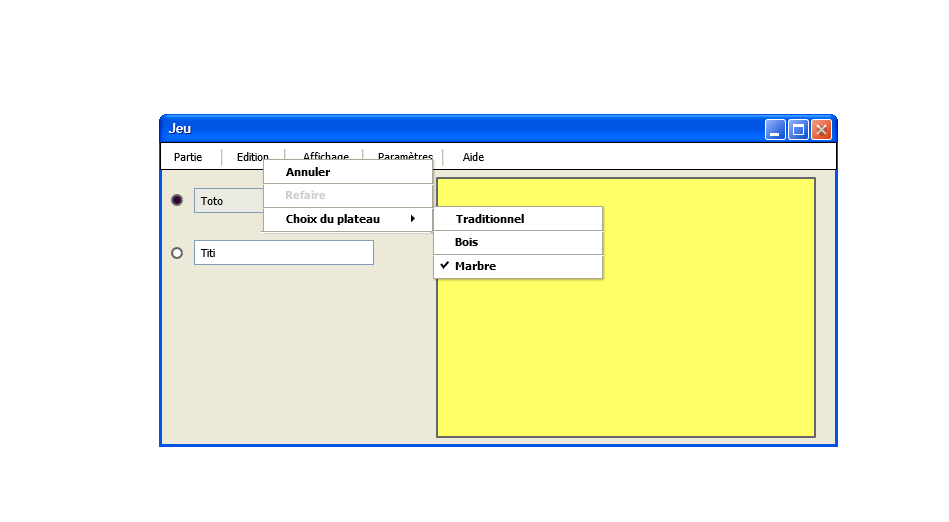
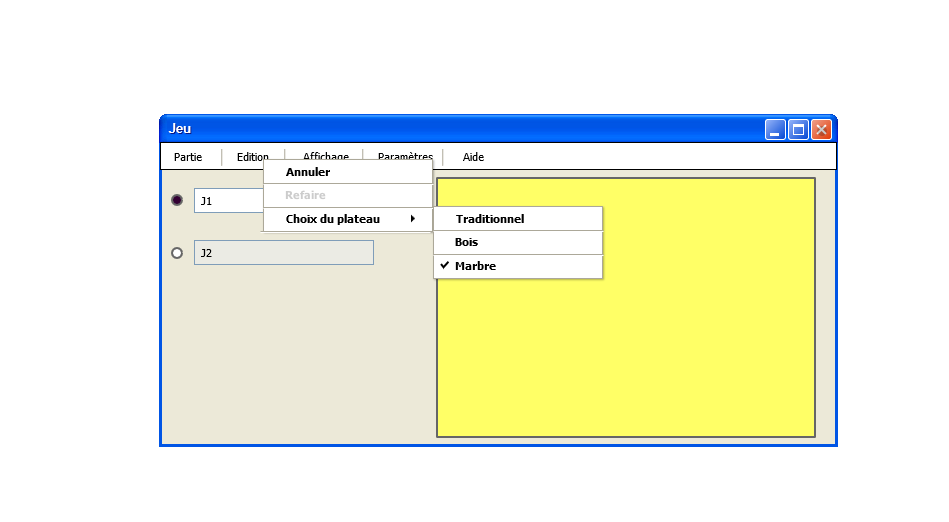
Mise à jour du prototypage, ajout compte-rendu
Suite à un soucis de compréhension, le prototype de l'IHM est mis à jour. De plus, afin de faciliter les futurs dossiers à rendre et / ou la soutenance, un fichier compte-rendu a été mis à disposition. Il retrace l'historique du projet et peut être modfié.

Changed region(s): [[0.1834, 0.4598, 0.3973, 0.5211], [0.1834, 0.3372, 0.275, 0.4291]]

diff --git a/Ressource IHM/index.html b/Ressource IHM/index.html
@@ -1,1 +1,1 @@
-<html xmlns="http://www.w3.org/1999/xhtml"><head><meta http-equiv="Content-Type" content="text/html; charset=UTF-8" /><title>IHM.ep</title><link rel="stylesheet" href="Resources/SampleStyle.css" /></head><body><h1 id="documentTitle">IHM.ep</h1><p id="documentMetadata">Exported at: Fri May 13 2016 14:18:12 GMT+0200</p><div class="Page" id="fentre_principale_page"><h2>Fenêtre Principale</h2><div class="ImageContainer"><img height="522" width="949" src="pages/fentre_principale.png" usemap="#map_fentre_principale" /></div><map name="map_fentre_principale"><area shape="rect" coords="311,381,686,411" href="#quitter_page" title="Go to page 'Quitter'" /><area shape="rect" coords="311,338,686,368" href="#aide_de_jeu_page" title="Go to page 'Aide de jeu'" /><area shape="rect" coords="311,142,686,172" href="#selection_humainordi_page" title="Go to page 'Selection Humain-Ordi'" /></map></div><div class="Page" id="aire_de_jeu_page"><h2>Aire de jeu</h2><div class="ImageContainer"><img height="522" width="949" src="pages/aire_de_jeu.png" usemap="#map_aire_de_jeu" /></div><map name="map_aire_de_jeu"><area shape="rect" coords="817,124,827,134" href="#quitter_page" title="Go to page 'Quitter'" /><area shape="rect" coords="461,147.5,487,164.5" href="#aide_page" title="Go to page 'Aide'" /><area shape="rect" coords="376,147.5,436,164.5" href="#paramtres_page" title="Go to page 'Paramètres'" /><area shape="rect" coords="301,147.5,352,164.5" href="#affichage_page" title="Go to page 'Affichage'" /><area shape="rect" coords="235,147.5,272,164.5" href="#edition_page" title="Go to page 'Edition'" /><area shape="rect" coords="172,147.5,205,164.5" href="#partie_page" title="Go to page 'Partie'" /></map></div><div class="Page" id="selection_humainordi_page"><h2>Selection Humain-Ordi</h2><div class="ImageContainer"><img height="522" width="949" src="pages/selection_humainordi.png" usemap="#map_selection_humainordi" /></div><map name="map_selection_humainordi"><area shape="rect" coords="814,45,824,55" href="#fentre_principale_page" title="Go to page 'Fenêtre Principale'" /><area shape="rect" coords="569.7833251953125,254.46665954589844,626.0166473388672,271.48333740234375" href="#selection_humainhumain_page" title="Go to page 'Selection Humain-Humain'" /><area shape="rect" coords="348.7833251953125,254.46665954589844,424.0166473388672,271.48333740234375" href="#selection_ordiordi_page" title="Go to page 'Selection Ordi-Ordi'" /><area shape="rect" coords="686,413,766,438" href="#fentre_principale_page" title="Go to page 'Fenêtre Principale'" /><area shape="rect" coords="293,413,373,438" href="#aire_de_jeu_page" title="Go to page 'Aire de jeu'" /></map></div><div class="Page" id="aide_de_jeu_page"><h2>Aide de jeu</h2><div class="ImageContainer"><img height="522" width="949" src="pages/aide_de_jeu.png" usemap="#map_aide_de_jeu" /></div><map name="map_aide_de_jeu"><area shape="rect" coords="876,152,886,162" href="#fentre_principale_page" title="Go to page 'Fenêtre Principale'" /></map></div><div class="Page" id="quitter_page"><h2>Quitter</h2><div class="ImageContainer"><img height="522" width="949" src="pages/quitter.png" usemap="#map_quitter" /></div><map name="map_quitter"><area shape="rect" coords="776,215,786,225" href="#fentre_principale_page" title="Go to page 'Fenêtre Principale'" /><area shape="rect" coords="707,325,787,350" href="#fentre_principale_page" title="Go to page 'Fenêtre Principale'" /></map></div><div class="Page" id="partie_page"><h2>Partie</h2><div class="ImageContainer"><img height="522" width="949" src="pages/partie.png" usemap="#map_partie" /></div><map name="map_partie"><area shape="rect" coords="818,126,828,136" href="#quitter_page" title="Go to page 'Quitter'" /><area shape="rect" coords="224,257.5,279,274.5" href="#abandonner_page" title="Go to page 'Abandonner'" /><area shape="rect" coords="223,232.5,313,249.5" href="#nouvelle_partie_page" title="Go to page 'Nouvelle Partie'" /><area shape="rect" coords="223,209.5,310,226.5" href="#recommencer_page" title="Go to page 'Recommencer'" /><area shape="rect" coords="461,147.5,487,164.5" href="#aide_page" title="Go to page 'Aide'" /><area shape="rect" coords="376,147.5,436,164.5" href="#paramtres_page" title="Go to page 'Paramètres'" /><area shape="rect" coords="301,147.5,352,164.5" href="#affichage_page" title="Go to page 'Affichage'" /><area shape="rect" coords="235,147.5,272,164.5" href="#edition_page" title="Go to page 'Edition'" /><area shape="rect" coords="172,147.5,205,164.5" href="#aire_de_jeu_page" title="Go to page 'Aire de jeu'" /><area shape="rect" coords="159,114,838,447" href="#aire_de_jeu_page" title="Go to page 'Aire de jeu'" /></map></div><div class="Page" id="nouvelle_partie_page"><h2>Nouvelle Partie</h2><div class="ImageContainer"><img height="522" width="949" src="pages/nouvelle_partie.png" usemap="#map_nouvelle_partie" /></div><map name="map_nouvelle_partie"><area shape="rect" coords="766,206,776,216" href="#aire_de_jeu_page" title="Go to page 'Aire de jeu'" /><area shape="rect" coords="633,354,713,379" href="#aire_de_jeu_page" title="Go to page 'Aire de jeu'" /><area shape="rect" coords="486,354,566,379" href="#selection_humainordi_page" title="Go to page 'Selection Humain-Ordi'" /></map></div><div class="Page" id="recommencer_page"><h2>Recommencer</h2><div class="ImageContainer"><img height="522" width="949" src="pages/recommencer.png" usemap="#map_recommencer" /></div><map name="map_recommencer"><area shape="rect" coords="766,206,776,216" href="#aire_de_jeu_page" title="Go to page 'Aire de jeu'" /><area shape="rect" coords="633,354,713,379" href="#aire_de_jeu_page" title="Go to page 'Aire de jeu'" /><area shape="rect" coords="486,354,566,379" href="#aire_de_jeu_page" title="Go to page 'Aire de jeu'" /></map></div><div class="Page" id="abandonner_page"><h2>Abandonner</h2><div class="ImageContainer"><img height="522" width="949" src="pages/abandonner.png" usemap="#map_abandonner" /></div><map name="map_abandonner"><area shape="rect" coords="766,206,776,216" href="#aire_de_jeu_page" title="Go to page 'Aire de jeu'" /><area shape="rect" coords="633,354,713,379" href="#fentre_principale_page" title="Go to page 'Fenêtre Principale'" /><area shape="rect" coords="486,354,566,379" href="#fentre_principale_page" title="Go to page 'Fenêtre Principale'" /></map></div><div class="Page" id="edition_page"><h2>Edition</h2><div class="ImageContainer"><img height="522" width="949" src="pages/edition.png" usemap="#map_edition" /></div><map name="map_edition"><area shape="rect" coords="817,127,827,137" href="#quitter_page" title="Go to page 'Quitter'" /><area shape="rect" coords="284,209.5,415,226.5" href="#choix_du_plateau_page" title="Go to page 'Choix du Plateau'" /><area shape="rect" coords="461,147.5,487,164.5" href="#aide_page" title="Go to page 'Aide'" /><area shape="rect" coords="376,147.5,436,164.5" href="#paramtres_page" title="Go to page 'Paramètres'" /><area shape="rect" coords="301,147.5,352,164.5" href="#affichage_page" title="Go to page 'Affichage'" /><area shape="rect" coords="235,147.5,272,164.5" href="#aire_de_jeu_page" title="Go to page 'Aire de jeu'" /><area shape="rect" coords="172,147.5,205,164.5" href="#partie_page" title="Go to page 'Partie'" /><area shape="rect" coords="159,114,838,447" href="#aire_de_jeu_page" title="Go to page 'Aire de jeu'" /></map></div><div class="Page" id="choix_du_plateau_page"><h2>Choix du Plateau</h2><div class="ImageContainer"><img height="522" width="949" src="pages/choix_du_plateau.png" usemap="#map_choix_du_plateau" /></div><map name="map_choix_du_plateau"><area shape="rect" coords="816,123,826,133" href="#quitter_page" title="Go to page 'Quitter'" /><area shape="rect" coords="453,256.5,499,273.5" href="#marbre_page" title="Go to page 'Marbre'" /><area shape="rect" coords="453,232.5,481,249.5" href="#bois_page" title="Go to page 'Bois'" /><area shape="rect" coords="461,147.5,487,164.5" href="#aide_page" title="Go to page 'Aide'" /><area shape="rect" coords="376,147.5,436,164.5" href="#paramtres_page" title="Go to page 'Paramètres'" /><area shape="rect" coords="301,147.5,352,164.5" href="#affichage_page" title="Go to page 'Affichage'" /><area shape="rect" coords="235,147.5,272,164.5" href="#aire_de_jeu_page" title="Go to page 'Aire de jeu'" /><area shape="rect" coords="172,147.5,205,164.5" href="#partie_page" title="Go to page 'Partie'" /><area shape="rect" coords="159,114,838,447" href="#aire_de_jeu_page" title="Go to page 'Aire de jeu'" /></map></div><div class="Page" id="affichage_page"><h2>Affichage</h2><div class="ImageContainer"><img height="522" width="949" src="pages/affichage.png" usemap="#map_affichage" /></div><map name="map_affichage"><area shape="rect" coords="818,125,828,135" href="#quitter_page" title="Go to page 'Quitter'" /><area shape="rect" coords="346,159,517,256" href="#historique_page" title="Go to page 'Historique'" /><area shape="rect" coords="461,147.5,487,164.5" href="#aide_page" title="Go to page 'Aide'" /><area shape="rect" coords="376,147.5,436,164.5" href="#paramtres_page" title="Go to page 'Paramètres'" /><area shape="rect" coords="301,147.5,352,164.5" href="#aire_de_jeu_page" title="Go to page 'Aire de jeu'" /><area shape="rect" coords="235,147.5,272,164.5" href="#edition_page" title="Go to page 'Edition'" /><area shape="rect" coords="172,147.5,205,164.5" href="#aire_de_jeu_page" title="Go to page 'Aire de jeu'" /><area shape="rect" coords="159,114,838,447" href="#aire_de_jeu_page" title="Go to page 'Aire de jeu'" /></map></div><div class="Page" id="paramtres_page"><h2>Paramètres</h2><div class="ImageContainer"><img height="522" width="949" src="pages/paramtres.png" usemap="#map_paramtres" /></div><map name="map_paramtres"><area shape="rect" coords="815,125,825,135" href="#quitter_page" title="Go to page 'Quitter'" /><area shape="rect" coords="461,147.5,487,164.5" href="#aide_page" title="Go to page 'Aide'" /><area shape="rect" coords="376,147.5,436,164.5" href="#aire_de_jeu_page" title="Go to page 'Aire de jeu'" /><area shape="rect" coords="301,147.5,352,164.5" href="#affichage_page" title="Go to page 'Affichage'" /><area shape="rect" coords="235,147.5,272,164.5" href="#edition_page" title="Go to page 'Edition'" /><area shape="rect" coords="172,147.5,205,164.5" href="#partie_page" title="Go to page 'Partie'" /><area shape="rect" coords="159,114,838,447" href="#aire_de_jeu_page" title="Go to page 'Aire de jeu'" /></map></div><div class="Page" id="selection_ordiordi_page"><h2>Selection Ordi-Ordi</h2><div class="ImageContainer"><img height="522" width="949" src="pages/selection_ordiordi.png" usemap="#map_selection_ordiordi" /></div><map name="map_selection_ordiordi"><area shape="rect" coords="816,44,826,54" href="#fentre_principale_page" title="Go to page 'Fenêtre Principale'" /><area shape="rect" coords="569.7833251953125,254.46665954589844,626.0166473388672,271.48333740234375" href="#selection_ordihumain_page" title="Go to page 'Selection Ordi-Humain'" /><area shape="rect" coords="173.78334045410156,254.46665954589844,230.01666259765625,271.48333740234375" href="#selection_humainordi_page" title="Go to page 'Selection Humain-Ordi'" /><area shape="rect" coords="686,413,766,438" href="#fentre_principale_page" title="Go to page 'Fenêtre Principale'" /><area shape="rect" coords="293,413,373,438" href="#aire_de_jeu_page" title="Go to page 'Aire de jeu'" /></map></div><div class="Page" id="aide_page"><h2>Aide</h2><div class="ImageContainer"><img height="522" width="949" src="pages/aide.png" usemap="#map_aide" /></div><map name="map_aide"><area shape="rect" coords="819,123,829,133" href="#quitter_page" title="Go to page 'Quitter'" /><area shape="rect" coords="500,162.5,570,179.5" href="#aide_de_jeu_page" title="Go to page 'Aide de jeu'" /><area shape="rect" coords="501,185.5,556,202.5" href="#a_propos_page" title="Go to page 'A Propos'" /><area shape="rect" coords="461,147.5,487,164.5" href="#aire_de_jeu_page" title="Go to page 'Aire de jeu'" /><area shape="rect" coords="159,114,838,447" href="#aire_de_jeu_page" title="Go to page 'Aire de jeu'" /></map></div><div class="Page" id="a_propos_page"><h2>A Propos</h2><div class="ImageContainer"><img height="522" width="949" src="pages/a_propos.png" usemap="#map_a_propos" /></div><map name="map_a_propos"><area shape="rect" coords="767,205,777,215" href="#aire_de_jeu_page" title="Go to page 'Aire de jeu'" /></map></div><div class="Page" id="selection_ordihumain_page"><h2>Selection Ordi-Humain</h2><div class="ImageContainer"><img height="522" width="949" src="pages/selection_ordihumain.png" usemap="#map_selection_ordihumain" /></div><map name="map_selection_ordihumain"><area shape="rect" coords="818,45,828,55" href="#fentre_principale_page" title="Go to page 'Fenêtre Principale'" /><area shape="rect" coords="744.7833251953125,254.46665954589844,820.0166473388672,271.48333740234375" href="#selection_ordiordi_page" title="Go to page 'Selection Ordi-Ordi'" /><area shape="rect" coords="173.78334045410156,254.46665954589844,230.01666259765625,271.48333740234375" href="#selection_humainhumain_page" title="Go to page 'Selection Humain-Humain'" /><area shape="rect" coords="686,413,766,438" href="#fentre_principale_page" title="Go to page 'Fenêtre Principale'" /><area shape="rect" coords="293,413,373,438" href="#aire_de_jeu_page" title="Go to page 'Aire de jeu'" /></map></div><div class="Page" id="selection_humainhumain_page"><h2>Selection Humain-Humain</h2><div class="ImageContainer"><img height="522" width="949" src="pages/selection_humainhumain.png" usemap="#map_selection_humainhumain" /></div><map name="map_selection_humainhumain"><area shape="rect" coords="815,45,825,55" href="#fentre_principale_page" title="Go to page 'Fenêtre Principale'" /><area shape="rect" coords="744.7833251953125,254.46665954589844,820.0166473388672,271.48333740234375" href="#selection_humainordi_page" title="Go to page 'Selection Humain-Ordi'" /><area shape="rect" coords="348.7833251953125,254.46665954589844,424.0166473388672,271.48333740234375" href="#selection_ordihumain_page" title="Go to page 'Selection Ordi-Humain'" /><area shape="rect" coords="686,413,766,438" href="#fentre_principale_page" title="Go to page 'Fenêtre Principale'" /><area shape="rect" coords="293,413,373,438" href="#aire_de_jeu_page" title="Go to page 'Aire de jeu'" /></map></div><div class="Page" id="bois_page"><h2>Bois</h2><div class="ImageContainer"><img height="522" width="949" src="pages/bois.png" usemap="#map_bois" /></div><map name="map_bois"><area shape="rect" coords="817,124,827,134" href="#quitter_page" title="Go to page 'Quitter'" /><area shape="rect" coords="453,256.5,499,273.5" href="#marbre_page" title="Go to page 'Marbre'" /><area shape="rect" coords="454,209.5,527,226.5" href="#choix_du_plateau_page" title="Go to page 'Choix du Plateau'" /><area shape="rect" coords="461,147.5,487,164.5" href="#aide_page" title="Go to page 'Aide'" /><area shape="rect" coords="376,147.5,436,164.5" href="#paramtres_page" title="Go to page 'Paramètres'" /><area shape="rect" coords="301,147.5,352,164.5" href="#affichage_page" title="Go to page 'Affichage'" /><area shape="rect" coords="235,147.5,272,164.5" href="#aire_de_jeu_page" title="Go to page 'Aire de jeu'" /><area shape="rect" coords="172,147.5,205,164.5" href="#partie_page" title="Go to page 'Partie'" /><area shape="rect" coords="159,114,838,447" href="#aire_de_jeu_page" title="Go to page 'Aire de jeu'" /></map></div><div class="Page" id="marbre_page"><h2>Marbre</h2><div class="ImageContainer"><img height="522" width="949" src="pages/marbre.png" usemap="#map_marbre" /></div><map name="map_marbre"><area shape="rect" coords="817,126,827,136" href="#quitter_page" title="Go to page 'Quitter'" /><area shape="rect" coords="453,232.5,481,249.5" href="#bois_page" title="Go to page 'Bois'" /><area shape="rect" coords="454,209.5,527,226.5" href="#choix_du_plateau_page" title="Go to page 'Choix du Plateau'" /><area shape="rect" coords="461,147.5,487,164.5" href="#aide_page" title="Go to page 'Aide'" /><area shape="rect" coords="376,147.5,436,164.5" href="#paramtres_page" title="Go to page 'Paramètres'" /><area shape="rect" coords="301,147.5,352,164.5" href="#affichage_page" title="Go to page 'Affichage'" /><area shape="rect" coords="235,147.5,272,164.5" href="#aire_de_jeu_page" title="Go to page 'Aire de jeu'" /><area shape="rect" coords="172,147.5,205,164.5" href="#partie_page" title="Go to page 'Partie'" /><area shape="rect" coords="159,114,838,447" href="#aire_de_jeu_page" title="Go to page 'Aire de jeu'" /></map></div><div class="Page" id="historique_page"><h2>Historique</h2><div class="ImageContainer"><img height="538" width="977" src="pages/historique.png" usemap="#map_historique" /></div><map name="map_historique"><area shape="rect" coords="817,111,827,121" href="#quitter_page" title="Go to page 'Quitter'" /><area shape="rect" coords="345,144,516,241" href="#affichage_page" title="Go to page 'Affichage'" /><area shape="rect" coords="460,132.5,486,149.5" href="#aide_page" title="Go to page 'Aide'" /><area shape="rect" coords="375,132.5,435,149.5" href="#paramtres_page" title="Go to page 'Paramètres'" /><area shape="rect" coords="300,132.5,351,149.5" href="#aire_de_jeu_page" title="Go to page 'Aire de jeu'" /><area shape="rect" coords="234,132.5,271,149.5" href="#edition_page" title="Go to page 'Edition'" /><area shape="rect" coords="171,132.5,204,149.5" href="#aire_de_jeu_page" title="Go to page 'Aire de jeu'" /><area shape="rect" coords="158,99,837,432" href="#aire_de_jeu_page" title="Go to page 'Aire de jeu'" /></map></div></body></html>
+<html xmlns="http://www.w3.org/1999/xhtml"><head><meta http-equiv="Content-Type" content="text/html; charset=UTF-8" /><title>IHM.ep</title><link rel="stylesheet" href="Resources/SampleStyle.css" /></head><body><h1 id="documentTitle">IHM.ep</h1><p id="documentMetadata">Exported at: Tue May 17 2016 08:00:39 GMT+0200</p><div class="Page" id="fentre_principale_page"><h2>Fenêtre Principale</h2><div class="ImageContainer"><img height="522" width="949" src="pages/fentre_principale.png" usemap="#map_fentre_principale" /></div><map name="map_fentre_principale"><area shape="rect" coords="311,381,686,411" href="#quitter_page" title="Go to page 'Quitter'" /><area shape="rect" coords="311,338,686,368" href="#aide_de_jeu_page" title="Go to page 'Aide de jeu'" /><area shape="rect" coords="311,142,686,172" href="#selection_humainordi_page" title="Go to page 'Selection Humain-Ordi'" /></map></div><div class="Page" id="aire_de_jeu_page"><h2>Aire de jeu</h2><div class="ImageContainer"><img height="522" width="949" src="pages/aire_de_jeu.png" usemap="#map_aire_de_jeu" /></div><map name="map_aire_de_jeu"><area shape="rect" coords="817,124,827,134" href="#quitter_page" title="Go to page 'Quitter'" /><area shape="rect" coords="461,147.5,487,164.5" href="#aide_page" title="Go to page 'Aide'" /><area shape="rect" coords="376,147.5,436,164.5" href="#paramtres_page" title="Go to page 'Paramètres'" /><area shape="rect" coords="301,147.5,352,164.5" href="#affichage_page" title="Go to page 'Affichage'" /><area shape="rect" coords="235,147.5,272,164.5" href="#edition_page" title="Go to page 'Edition'" /><area shape="rect" coords="172,147.5,205,164.5" href="#partie_page" title="Go to page 'Partie'" /></map></div><div class="Page" id="selection_humainordi_page"><h2>Selection Humain-Ordi</h2><div class="ImageContainer"><img height="522" width="949" src="pages/selection_humainordi.png" usemap="#map_selection_humainordi" /></div><map name="map_selection_humainordi"><area shape="rect" coords="814,45,824,55" href="#fentre_principale_page" title="Go to page 'Fenêtre Principale'" /><area shape="rect" coords="569.7833251953125,254.46665954589844,626.0166473388672,271.48333740234375" href="#selection_humainhumain_page" title="Go to page 'Selection Humain-Humain'" /><area shape="rect" coords="348.7833251953125,254.46665954589844,424.0166473388672,271.48333740234375" href="#selection_ordiordi_page" title="Go to page 'Selection Ordi-Ordi'" /><area shape="rect" coords="686,413,766,438" href="#fentre_principale_page" title="Go to page 'Fenêtre Principale'" /><area shape="rect" coords="293,413,373,438" href="#aire_de_jeu_page" title="Go to page 'Aire de jeu'" /></map></div><div class="Page" id="aide_de_jeu_page"><h2>Aide de jeu</h2><div class="ImageContainer"><img height="522" width="949" src="pages/aide_de_jeu.png" usemap="#map_aide_de_jeu" /></div><map name="map_aide_de_jeu"><area shape="rect" coords="876,152,886,162" href="#fentre_principale_page" title="Go to page 'Fenêtre Principale'" /></map></div><div class="Page" id="quitter_page"><h2>Quitter</h2><div class="ImageContainer"><img height="522" width="949" src="pages/quitter.png" usemap="#map_quitter" /></div><map name="map_quitter"><area shape="rect" coords="776,215,786,225" href="#fentre_principale_page" title="Go to page 'Fenêtre Principale'" /><area shape="rect" coords="707,325,787,350" href="#fentre_principale_page" title="Go to page 'Fenêtre Principale'" /></map></div><div class="Page" id="partie_page"><h2>Partie</h2><div class="ImageContainer"><img height="522" width="949" src="pages/partie.png" usemap="#map_partie" /></div><map name="map_partie"><area shape="rect" coords="818,126,828,136" href="#quitter_page" title="Go to page 'Quitter'" /><area shape="rect" coords="224,257.5,279,274.5" href="#abandonner_page" title="Go to page 'Abandonner'" /><area shape="rect" coords="223,232.5,313,249.5" href="#nouvelle_partie_page" title="Go to page 'Nouvelle Partie'" /><area shape="rect" coords="223,209.5,310,226.5" href="#recommencer_page" title="Go to page 'Recommencer'" /><area shape="rect" coords="461,147.5,487,164.5" href="#aide_page" title="Go to page 'Aide'" /><area shape="rect" coords="376,147.5,436,164.5" href="#paramtres_page" title="Go to page 'Paramètres'" /><area shape="rect" coords="301,147.5,352,164.5" href="#affichage_page" title="Go to page 'Affichage'" /><area shape="rect" coords="235,147.5,272,164.5" href="#edition_page" title="Go to page 'Edition'" /><area shape="rect" coords="172,147.5,205,164.5" href="#aire_de_jeu_page" title="Go to page 'Aire de jeu'" /><area shape="rect" coords="159,114,838,447" href="#aire_de_jeu_page" title="Go to page 'Aire de jeu'" /></map></div><div class="Page" id="nouvelle_partie_page"><h2>Nouvelle Partie</h2><div class="ImageContainer"><img height="522" width="949" src="pages/nouvelle_partie.png" usemap="#map_nouvelle_partie" /></div><map name="map_nouvelle_partie"><area shape="rect" coords="766,206,776,216" href="#aire_de_jeu_page" title="Go to page 'Aire de jeu'" /><area shape="rect" coords="633,354,713,379" href="#aire_de_jeu_page" title="Go to page 'Aire de jeu'" /><area shape="rect" coords="486,354,566,379" href="#selection_humainordi_page" title="Go to page 'Selection Humain-Ordi'" /></map></div><div class="Page" id="recommencer_page"><h2>Recommencer</h2><div class="ImageContainer"><img height="522" width="949" src="pages/recommencer.png" usemap="#map_recommencer" /></div><map name="map_recommencer"><area shape="rect" coords="766,206,776,216" href="#aire_de_jeu_page" title="Go to page 'Aire de jeu'" /><area shape="rect" coords="633,354,713,379" href="#aire_de_jeu_page" title="Go to page 'Aire de jeu'" /><area shape="rect" coords="486,354,566,379" href="#aire_de_jeu_page" title="Go to page 'Aire de jeu'" /></map></div><div class="Page" id="abandonner_page"><h2>Abandonner</h2><div class="ImageContainer"><img height="522" width="949" src="pages/abandonner.png" usemap="#map_abandonner" /></div><map name="map_abandonner"><area shape="rect" coords="766,206,776,216" href="#aire_de_jeu_page" title="Go to page 'Aire de jeu'" /><area shape="rect" coords="633,354,713,379" href="#fentre_principale_page" title="Go to page 'Fenêtre Principale'" /><area shape="rect" coords="486,354,566,379" href="#fentre_principale_page" title="Go to page 'Fenêtre Principale'" /></map></div><div class="Page" id="edition_page"><h2>Edition</h2><div class="ImageContainer"><img height="522" width="949" src="pages/edition.png" usemap="#map_edition" /></div><map name="map_edition"><area shape="rect" coords="817,127,827,137" href="#quitter_page" title="Go to page 'Quitter'" /><area shape="rect" coords="284,209.5,415,226.5" href="#choix_du_plateau_page" title="Go to page 'Choix du Plateau'" /><area shape="rect" coords="461,147.5,487,164.5" href="#aide_page" title="Go to page 'Aide'" /><area shape="rect" coords="376,147.5,436,164.5" href="#paramtres_page" title="Go to page 'Paramètres'" /><area shape="rect" coords="301,147.5,352,164.5" href="#affichage_page" title="Go to page 'Affichage'" /><area shape="rect" coords="235,147.5,272,164.5" href="#aire_de_jeu_page" title="Go to page 'Aire de jeu'" /><area shape="rect" coords="172,147.5,205,164.5" href="#partie_page" title="Go to page 'Partie'" /><area shape="rect" coords="159,114,838,447" href="#aire_de_jeu_page" title="Go to page 'Aire de jeu'" /></map></div><div class="Page" id="choix_du_plateau_page"><h2>Choix du Plateau</h2><div class="ImageContainer"><img height="522" width="949" src="pages/choix_du_plateau.png" usemap="#map_choix_du_plateau" /></div><map name="map_choix_du_plateau"><area shape="rect" coords="816,123,826,133" href="#quitter_page" title="Go to page 'Quitter'" /><area shape="rect" coords="453,256.5,499,273.5" href="#marbre_page" title="Go to page 'Marbre'" /><area shape="rect" coords="453,232.5,481,249.5" href="#bois_page" title="Go to page 'Bois'" /><area shape="rect" coords="461,147.5,487,164.5" href="#aide_page" title="Go to page 'Aide'" /><area shape="rect" coords="376,147.5,436,164.5" href="#paramtres_page" title="Go to page 'Paramètres'" /><area shape="rect" coords="301,147.5,352,164.5" href="#affichage_page" title="Go to page 'Affichage'" /><area shape="rect" coords="235,147.5,272,164.5" href="#aire_de_jeu_page" title="Go to page 'Aire de jeu'" /><area shape="rect" coords="172,147.5,205,164.5" href="#partie_page" title="Go to page 'Partie'" /><area shape="rect" coords="159,114,838,447" href="#aire_de_jeu_page" title="Go to page 'Aire de jeu'" /></map></div><div class="Page" id="affichage_page"><h2>Affichage</h2><div class="ImageContainer"><img height="522" width="949" src="pages/affichage.png" usemap="#map_affichage" /></div><map name="map_affichage"><area shape="rect" coords="346,159,517,256" href="#historique_page" title="Go to page 'Historique'" /><area shape="rect" coords="818,125,828,135" href="#quitter_page" title="Go to page 'Quitter'" /><area shape="rect" coords="461,147.5,487,164.5" href="#aide_page" title="Go to page 'Aide'" /><area shape="rect" coords="376,147.5,436,164.5" href="#paramtres_page" title="Go to page 'Paramètres'" /><area shape="rect" coords="301,147.5,352,164.5" href="#aire_de_jeu_page" title="Go to page 'Aire de jeu'" /><area shape="rect" coords="235,147.5,272,164.5" href="#edition_page" title="Go to page 'Edition'" /><area shape="rect" coords="172,147.5,205,164.5" href="#aire_de_jeu_page" title="Go to page 'Aire de jeu'" /><area shape="rect" coords="159,114,838,447" href="#aire_de_jeu_page" title="Go to page 'Aire de jeu'" /></map></div><div class="Page" id="paramtres_page"><h2>Paramètres</h2><div class="ImageContainer"><img height="522" width="949" src="pages/paramtres.png" usemap="#map_paramtres" /></div><map name="map_paramtres"><area shape="rect" coords="815,125,825,135" href="#quitter_page" title="Go to page 'Quitter'" /><area shape="rect" coords="461,147.5,487,164.5" href="#aide_page" title="Go to page 'Aide'" /><area shape="rect" coords="376,147.5,436,164.5" href="#aire_de_jeu_page" title="Go to page 'Aire de jeu'" /><area shape="rect" coords="301,147.5,352,164.5" href="#affichage_page" title="Go to page 'Affichage'" /><area shape="rect" coords="235,147.5,272,164.5" href="#edition_page" title="Go to page 'Edition'" /><area shape="rect" coords="172,147.5,205,164.5" href="#partie_page" title="Go to page 'Partie'" /><area shape="rect" coords="159,114,838,447" href="#aire_de_jeu_page" title="Go to page 'Aire de jeu'" /></map></div><div class="Page" id="selection_ordiordi_page"><h2>Selection Ordi-Ordi</h2><div class="ImageContainer"><img height="522" width="949" src="pages/selection_ordiordi.png" usemap="#map_selection_ordiordi" /></div><map name="map_selection_ordiordi"><area shape="rect" coords="816,44,826,54" href="#fentre_principale_page" title="Go to page 'Fenêtre Principale'" /><area shape="rect" coords="569.7833251953125,254.46665954589844,626.0166473388672,271.48333740234375" href="#selection_ordihumain_page" title="Go to page 'Selection Ordi-Humain'" /><area shape="rect" coords="173.78334045410156,254.46665954589844,230.01666259765625,271.48333740234375" href="#selection_humainordi_page" title="Go to page 'Selection Humain-Ordi'" /><area shape="rect" coords="686,413,766,438" href="#fentre_principale_page" title="Go to page 'Fenêtre Principale'" /><area shape="rect" coords="293,413,373,438" href="#aire_de_jeu_page" title="Go to page 'Aire de jeu'" /></map></div><div class="Page" id="aide_page"><h2>Aide</h2><div class="ImageContainer"><img height="522" width="949" src="pages/aide.png" usemap="#map_aide" /></div><map name="map_aide"><area shape="rect" coords="819,123,829,133" href="#quitter_page" title="Go to page 'Quitter'" /><area shape="rect" coords="500,162.5,570,179.5" href="#aide_de_jeu_page" title="Go to page 'Aide de jeu'" /><area shape="rect" coords="501,185.5,556,202.5" href="#a_propos_page" title="Go to page 'A Propos'" /><area shape="rect" coords="461,147.5,487,164.5" href="#aire_de_jeu_page" title="Go to page 'Aire de jeu'" /><area shape="rect" coords="159,114,838,447" href="#aire_de_jeu_page" title="Go to page 'Aire de jeu'" /></map></div><div class="Page" id="a_propos_page"><h2>A Propos</h2><div class="ImageContainer"><img height="522" width="949" src="pages/a_propos.png" usemap="#map_a_propos" /></div><map name="map_a_propos"><area shape="rect" coords="767,205,777,215" href="#aire_de_jeu_page" title="Go to page 'Aire de jeu'" /></map></div><div class="Page" id="selection_ordihumain_page"><h2>Selection Ordi-Humain</h2><div class="ImageContainer"><img height="522" width="949" src="pages/selection_ordihumain.png" usemap="#map_selection_ordihumain" /></div><map name="map_selection_ordihumain"><area shape="rect" coords="818,45,828,55" href="#fentre_principale_page" title="Go to page 'Fenêtre Principale'" /><area shape="rect" coords="744.7833251953125,254.46665954589844,820.0166473388672,271.48333740234375" href="#selection_ordiordi_page" title="Go to page 'Selection Ordi-Ordi'" /><area shape="rect" coords="173.78334045410156,254.46665954589844,230.01666259765625,271.48333740234375" href="#selection_humainhumain_page" title="Go to page 'Selection Humain-Humain'" /><area shape="rect" coords="686,413,766,438" href="#fentre_principale_page" title="Go to page 'Fenêtre Principale'" /><area shape="rect" coords="293,413,373,438" href="#aire_de_jeu_page" title="Go to page 'Aire de jeu'" /></map></div><div class="Page" id="selection_humainhumain_page"><h2>Selection Humain-Humain</h2><div class="ImageContainer"><img height="522" width="949" src="pages/selection_humainhumain.png" usemap="#map_selection_humainhumain" /></div><map name="map_selection_humainhumain"><area shape="rect" coords="815,45,825,55" href="#fentre_principale_page" title="Go to page 'Fenêtre Principale'" /><area shape="rect" coords="744.7833251953125,254.46665954589844,820.0166473388672,271.48333740234375" href="#selection_humainordi_page" title="Go to page 'Selection Humain-Ordi'" /><area shape="rect" coords="348.7833251953125,254.46665954589844,424.0166473388672,271.48333740234375" href="#selection_ordihumain_page" title="Go to page 'Selection Ordi-Humain'" /><area shape="rect" coords="686,413,766,438" href="#fentre_principale_page" title="Go to page 'Fenêtre Principale'" /><area shape="rect" coords="293,413,373,438" href="#aire_de_jeu_page" title="Go to page 'Aire de jeu'" /></map></div><div class="Page" id="bois_page"><h2>Bois</h2><div class="ImageContainer"><img height="522" width="949" src="pages/bois.png" usemap="#map_bois" /></div><map name="map_bois"><area shape="rect" coords="815,45,825,55" href="#fentre_principale_page" title="Go to page 'Fenêtre Principale'" /><area shape="rect" coords="744.7833251953125,254.46665954589844,820.0166473388672,271.48333740234375" href="#selection_humainordi_page" title="Go to page 'Selection Humain-Ordi'" /><area shape="rect" coords="348.7833251953125,254.46665954589844,424.0166473388672,271.48333740234375" href="#selection_ordihumain_page" title="Go to page 'Selection Ordi-Humain'" /><area shape="rect" coords="686,413,766,438" href="#fentre_principale_page" title="Go to page 'Fenêtre Principale'" /><area shape="rect" coords="293,413,373,438" href="#aire_de_jeu_page" title="Go to page 'Aire de jeu'" /></map></div><div class="Page" id="marbre_page"><h2>Marbre</h2><div class="ImageContainer"><img height="522" width="949" src="pages/marbre.png" usemap="#map_marbre" /></div><map name="map_marbre"><area shape="rect" coords="817,126,827,136" href="#quitter_page" title="Go to page 'Quitter'" /><area shape="rect" coords="453,232.5,481,249.5" href="#bois_page" title="Go to page 'Bois'" /><area shape="rect" coords="454,209.5,527,226.5" href="#choix_du_plateau_page" title="Go to page 'Choix du Plateau'" /><area shape="rect" coords="461,147.5,487,164.5" href="#aide_page" title="Go to page 'Aide'" /><area shape="rect" coords="376,147.5,436,164.5" href="#paramtres_page" title="Go to page 'Paramètres'" /><area shape="rect" coords="301,147.5,352,164.5" href="#affichage_page" title="Go to page 'Affichage'" /><area shape="rect" coords="235,147.5,272,164.5" href="#aire_de_jeu_page" title="Go to page 'Aire de jeu'" /><area shape="rect" coords="172,147.5,205,164.5" href="#partie_page" title="Go to page 'Partie'" /><area shape="rect" coords="159,114,838,447" href="#aire_de_jeu_page" title="Go to page 'Aire de jeu'" /></map></div><div class="Page" id="historique_page"><h2>Historique</h2><div class="ImageContainer"><img height="538" width="977" src="pages/historique.png" usemap="#map_historique" /></div><map name="map_historique"><area shape="rect" coords="817,111,827,121" href="#quitter_page" title="Go to page 'Quitter'" /><area shape="rect" coords="345,144,516,241" href="#affichage_page" title="Go to page 'Affichage'" /><area shape="rect" coords="460,132.5,486,149.5" href="#aide_page" title="Go to page 'Aide'" /><area shape="rect" coords="375,132.5,435,149.5" href="#paramtres_page" title="Go to page 'Paramètres'" /><area shape="rect" coords="300,132.5,351,149.5" href="#aire_de_jeu_page" title="Go to page 'Aire de jeu'" /><area shape="rect" coords="234,132.5,271,149.5" href="#edition_page" title="Go to page 'Edition'" /><area shape="rect" coords="171,132.5,204,149.5" href="#aire_de_jeu_page" title="Go to page 'Aire de jeu'" /><area shape="rect" coords="158,99,837,432" href="#aire_de_jeu_page" title="Go to page 'Aire de jeu'" /></map></div></body></html>
